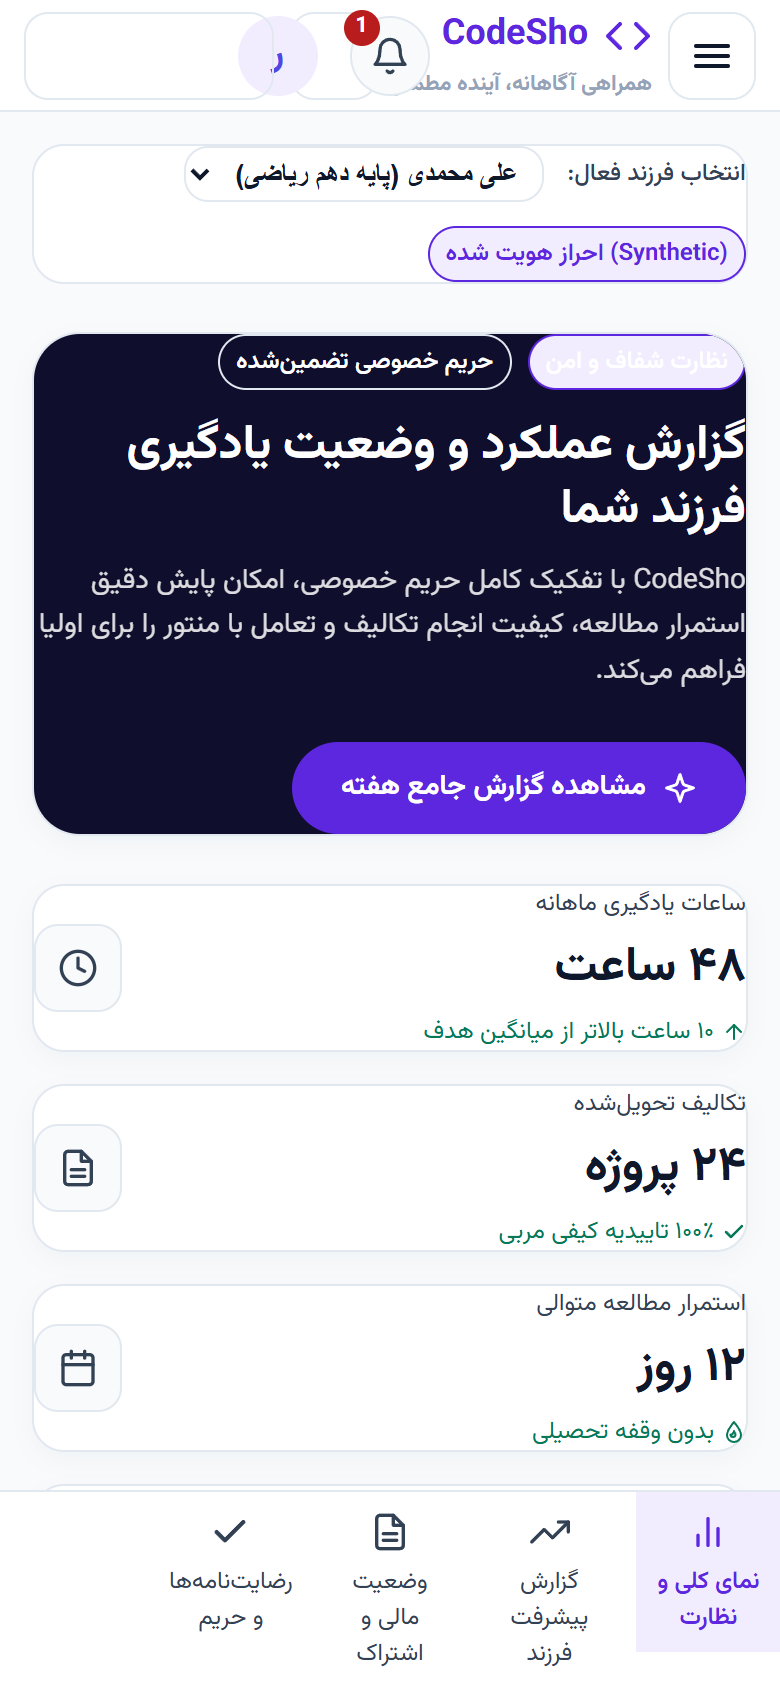
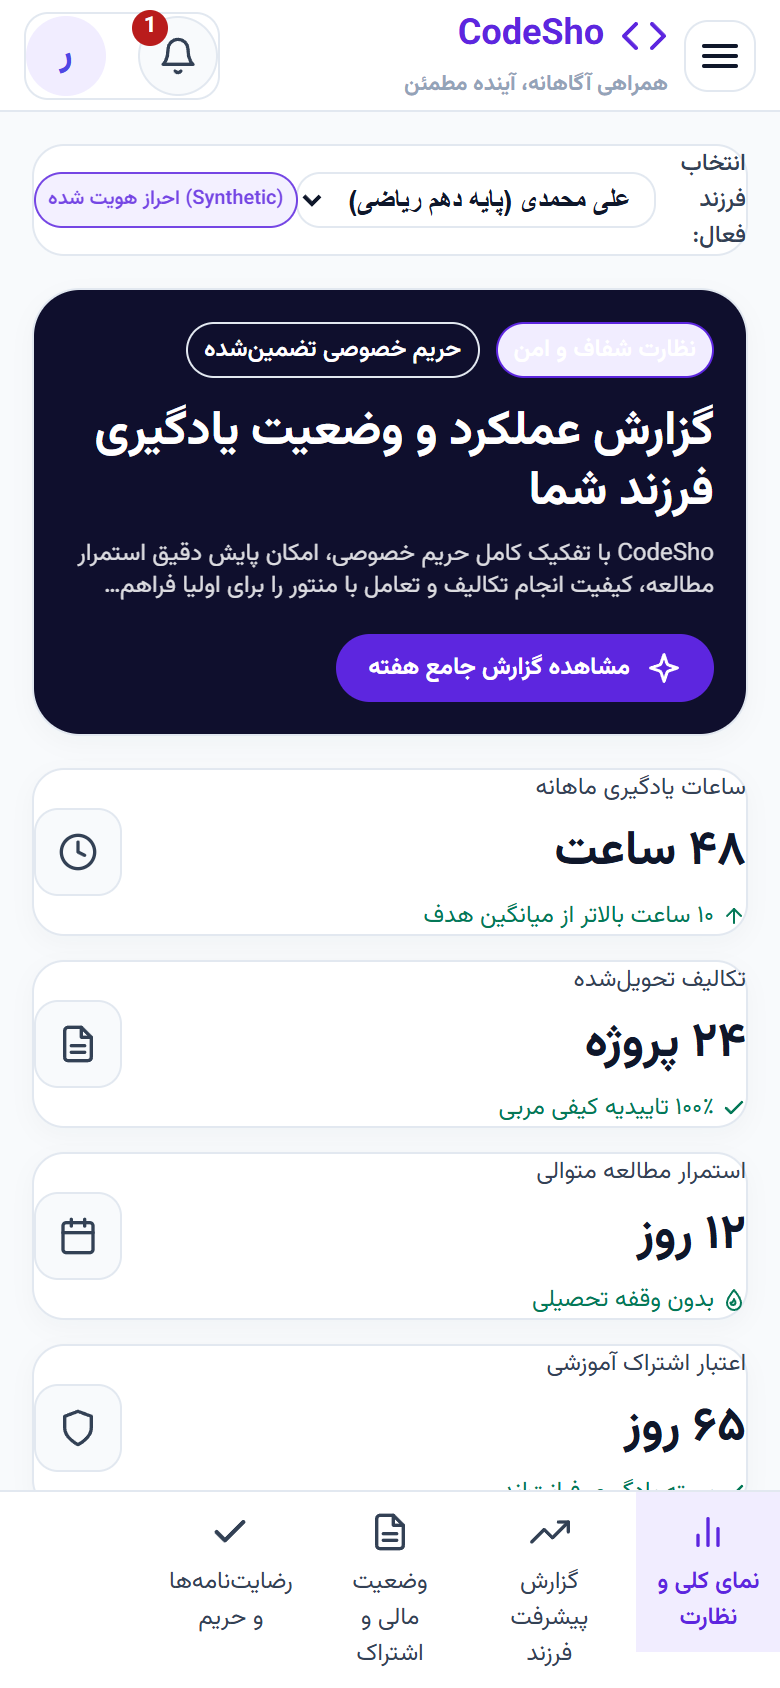
feat(parent): complete final visual micro-remediation for mobile density and topbar

diff --git a/frontend/src/app/student/student.module.css b/frontend/src/app/student/student.module.css
@@ -4,7 +4,7 @@
   display: flex;
   flex-direction: column;
   gap: var(--cs-space-6);
-  padding-block-end: var(--cs-space-12);
+  padding-block-end: var(--cs-space-6);
 }
 
 /* Header Elements in AppHeader slots */
@@ -874,16 +874,76 @@
 }
 
 @media (max-width: 48rem) {
+  .studentDashboard {
+    gap: var(--cs-space-4);
+    padding-block-end: var(--cs-space-6);
+  }
+
+  .childSelectorBanner {
+    padding: var(--cs-space-2) var(--cs-space-3);
+    gap: var(--cs-space-2);
+    flex-wrap: nowrap;
+    justify-content: space-between;
+  }
+
+  .childSelectorInfo {
+    gap: var(--cs-space-2);
+    flex-wrap: nowrap;
+    min-inline-size: 0;
+  }
+
+  .childSelectorBadge {
+    padding: 0.125rem 0.375rem;
+    font-size: 0.625rem;
+    white-space: nowrap;
+    flex-shrink: 0;
+    opacity: 0.85;
+    border-width: var(--cs-border-width);
+  }
+
+  .childSelectorSelect {
+    font-size: var(--cs-font-size-caption);
+    padding: 0.1875rem 0.375rem;
+    max-inline-size: 11rem;
+  }
+
   .heroBanner {
     grid-template-columns: 1fr;
-    padding: var(--cs-space-5);
+    padding: var(--cs-space-4) var(--cs-space-4);
+    min-block-size: auto;
+    gap: var(--cs-space-3);
+  }
+
+  .heroHeading {
+    font-size: var(--cs-font-size-heading-lg);
+    line-height: 1.25;
+  }
+
+  .heroSubtitle {
+    font-size: var(--cs-font-size-caption);
+    line-height: 1.35;
+    display: -webkit-box;
+    -webkit-line-clamp: 2;
+    -webkit-box-orient: vertical;
+    overflow: hidden;
+  }
+
+  .heroButtons {
+    margin-block-start: 0;
+  }
+
+  .heroPrimaryBtn {
+    padding: var(--cs-space-2) var(--cs-space-4);
+    font-size: var(--cs-font-size-caption);
   }
 
   .kpiGrid,
   .middleGrid,
   .twoColumnGrid,
-  .bottomGrid {
+  .bottomGrid,
+  .parentLowerGrid {
     grid-template-columns: 1fr;
+    gap: var(--cs-space-3);
   }
 
   .headerSearchWrapper {
@@ -1033,7 +1093,6 @@
   display: flex;
   align-items: center;
   justify-content: space-between;
-  flex-wrap: wrap;
   background: var(--cs-color-bg-surface);
   border: var(--cs-border-width) solid var(--cs-color-border-subtle);
   border-radius: var(--cs-radius-card);
@@ -1045,7 +1104,6 @@
 .childSelectorInfo {
   display: flex;
   align-items: center;
-  flex-wrap: wrap;
   gap: var(--cs-space-3);
 }
 
@@ -1053,6 +1111,18 @@
   background: var(--cs-color-brand-primary-soft);
   color: var(--cs-color-brand-primary);
   border: var(--cs-border-width) solid var(--cs-color-brand-primary);
+}
+
+.childSelectorSelect {
+  font-size: var(--cs-font-size-body);
+  font-weight: var(--cs-font-weight-bold);
+  color: var(--cs-color-text-primary);
+  background: var(--cs-color-transparent);
+  border: var(--cs-border-width) solid var(--cs-color-border-subtle);
+  border-radius: var(--cs-radius-control);
+  padding: 0.25rem 0.5rem;
+  cursor: pointer;
+  max-inline-size: 100%;
 }
 
 

diff --git a/frontend/src/app/parent/page.tsx b/frontend/src/app/parent/page.tsx
@@ -109,16 +109,7 @@ export default function ParentOverviewPage() {
           <select
             value={selectedChild}
             onChange={(e) => setSelectedChild(e.target.value)}
-            style={{
-              fontSize: "var(--cs-font-size-body)",
-              fontWeight: "var(--cs-font-weight-bold)",
-              color: "var(--cs-color-text-primary)",
-              background: "transparent",
-              border: "1px solid var(--cs-color-border-subtle)",
-              borderRadius: "var(--cs-radius-control)",
-              padding: "0.25rem 0.5rem",
-              cursor: "pointer"
-            }}
+            className={styles.childSelectorSelect}
             aria-label={o.childSelectLabel}
           >
             <option value={o.child1Option}>{o.child1Option}</option>

diff --git a/frontend/src/components/layout/shell.module.css b/frontend/src/components/layout/shell.module.css
@@ -384,13 +384,27 @@
 @media (max-width: 47.9375rem) {
   .header {
     min-block-size: var(--cs-shell-header-mobile);
+    grid-template-columns: auto minmax(0, 1fr) auto;
     gap: var(--cs-space-2);
     padding-inline: var(--cs-space-3);
+  }
+
+  .headerPrimarySlot {
+    display: none;
   }
 
   .headerBrand {
     overflow: hidden;
     white-space: nowrap;
+  }
+
+  .headerActions {
+    gap: var(--cs-space-1);
+  }
+
+  .menuButton {
+    min-inline-size: 2.25rem;
+    min-block-size: 2.25rem;
   }
 
   .shellContent {

diff --git a/capture_5_screenshots_sync.py b/capture_5_screenshots_sync.py
@@ -1,0 +1,72 @@
+import websocket
+import json
+import urllib.request
+import base64
+import os
+import sys
+import time
+
+sys.stdout.reconfigure(encoding='utf-8')
+
+OUT_DIR = r'G:\project\codesho\codesho\codesho\docs\evidence\post_wave3_visual_review'
+os.makedirs(OUT_DIR, exist_ok=True)
+
+def capture_suite():
+    tabs = json.loads(urllib.request.urlopen('http://127.0.0.1:9222/json').read().decode())
+    parent_tab = next(t for t in tabs if 'parent' in t.get('url', '') or '3001' in t.get('url', ''))
+    print("Connecting to tab:", parent_tab['url'])
+    
+    ws = websocket.create_connection(parent_tab['webSocketDebuggerUrl'], suppress_origin=True)
+    msg_id = 0
+    def cdp(method, params=None):
+        nonlocal msg_id
+        msg_id += 1
+        ws.send(json.dumps({'id': msg_id, 'method': method, 'params': params or {}}))
+        while True:
+            resp = json.loads(ws.recv())
+            if resp.get('id') == msg_id:
+                return resp
+
+    print("1. Capturing parent_desktop_1440x900...")
+    cdp('Emulation.setDeviceMetricsOverride', {'width': 1440, 'height': 900, 'deviceScaleFactor': 1, 'mobile': False})
+    cdp('Page.navigate', {'url': 'http://172.19.144.16:3001/parent'})
+    time.sleep(3.0)
+    shot1 = cdp('Page.captureScreenshot', {'format': 'png'})
+    with open(os.path.join(OUT_DIR, 'parent_desktop_1440x900.png'), 'wb') as f:
+        f.write(base64.b64decode(shot1['result']['data']))
+    print('Captured parent_desktop_1440x900.png')
+
+    print("2. Capturing parent_above_fold_close...")
+    shot2 = cdp('Page.captureScreenshot', {'format': 'png', 'clip': {'x': 250, 'y': 70, 'width': 1150, 'height': 380, 'scale': 1}})
+    with open(os.path.join(OUT_DIR, 'parent_above_fold_close.png'), 'wb') as f:
+        f.write(base64.b64decode(shot2['result']['data']))
+    print('Captured parent_above_fold_close.png')
+
+    print("3. Capturing parent_kpi_strip_close...")
+    shot3 = cdp('Page.captureScreenshot', {'format': 'png', 'clip': {'x': 250, 'y': 380, 'width': 1150, 'height': 150, 'scale': 1}})
+    with open(os.path.join(OUT_DIR, 'parent_kpi_strip_close.png'), 'wb') as f:
+        f.write(base64.b64decode(shot3['result']['data']))
+    print('Captured parent_kpi_strip_close.png')
+
+    print("4. Capturing parent_notification_popover_close...")
+    click_bell_js = "(() => { const b = document.querySelector('button[aria-label=\"اعلانهای نظارتی\"]'); if (b) b.click(); })()"
+    cdp('Runtime.evaluate', {'expression': click_bell_js})
+    time.sleep(1.0)
+    shot4 = cdp('Page.captureScreenshot', {'format': 'png', 'clip': {'x': 850, 'y': 10, 'width': 550, 'height': 450, 'scale': 1}})
+    with open(os.path.join(OUT_DIR, 'parent_notification_popover_close.png'), 'wb') as f:
+        f.write(base64.b64decode(shot4['result']['data']))
+    print('Captured parent_notification_popover_close.png')
+
+    print("5. Capturing parent_mobile_390x844...")
+    cdp('Emulation.setDeviceMetricsOverride', {'width': 390, 'height': 844, 'deviceScaleFactor': 2, 'mobile': True})
+    cdp('Page.navigate', {'url': 'http://172.19.144.16:3001/parent'})
+    time.sleep(3.0)
+    shot5 = cdp('Page.captureScreenshot', {'format': 'png'})
+    with open(os.path.join(OUT_DIR, 'parent_mobile_390x844.png'), 'wb') as f:
+        f.write(base64.b64decode(shot5['result']['data']))
+    print('Captured parent_mobile_390x844.png')
+    ws.close()
+    print("All 5 captures complete successfully!")
+
+if __name__ == '__main__':
+    capture_suite()
